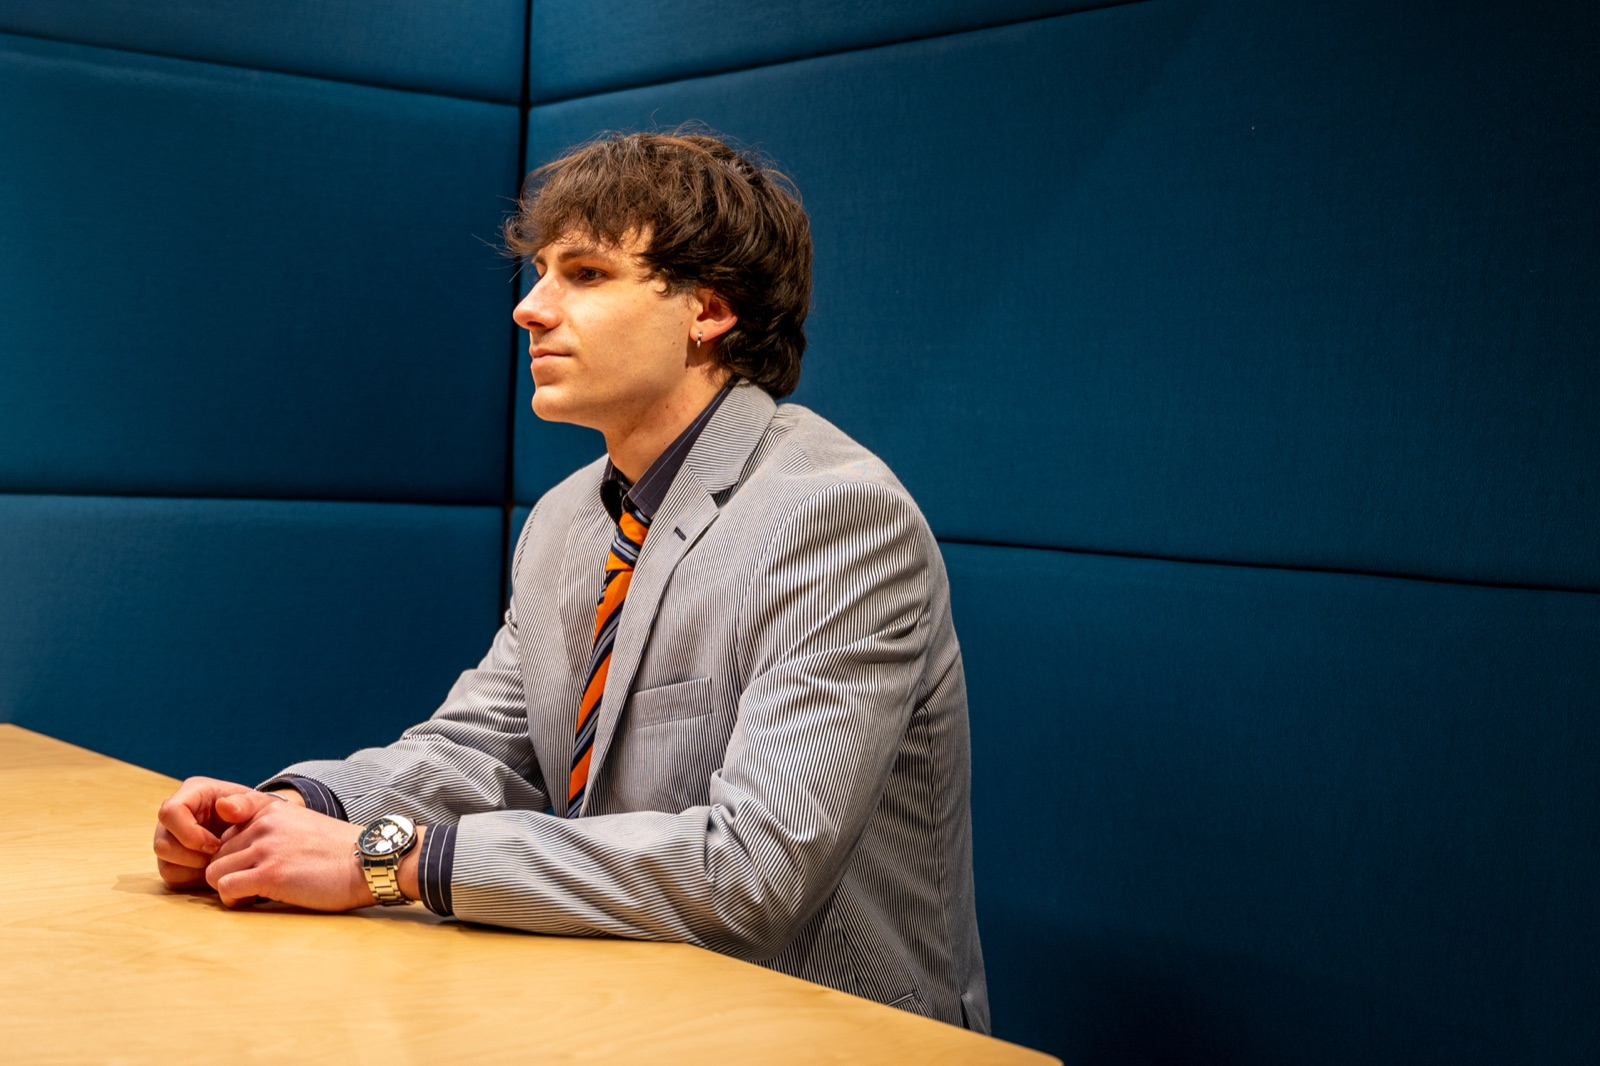
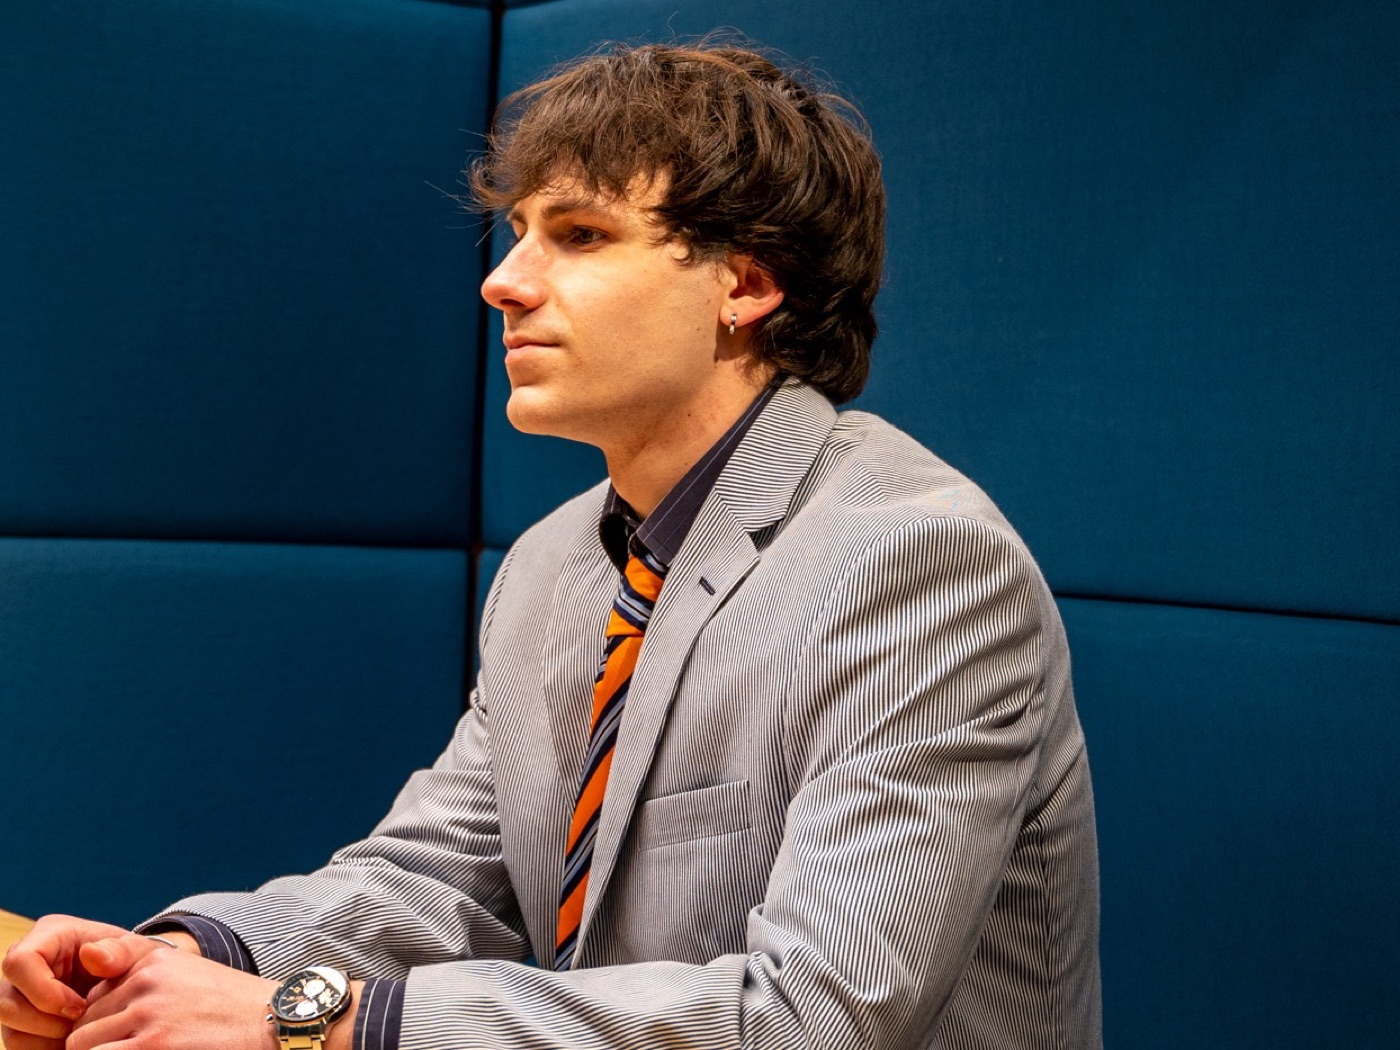
Chi sono: ritagli 2:3 e 4:3 senza crop, gradazioni separate per le due foto, aspect-ratio stabile su ogni schermo, cache v8

diff --git a/styles.css b/styles.css
@@ -412,7 +412,8 @@ a { text-decoration: none; color: inherit; }
   gap: 84px;
   align-items: center;
 }
-.about-photos { position: relative; height: 560px; }
+/* Sized by aspect-ratio so the framing stays identical at every screen width */
+.about-photos { position: relative; aspect-ratio: 17 / 20; }
 .ph {
   position: absolute;
   margin: 0;
@@ -421,36 +422,49 @@ a { text-decoration: none; color: inherit; }
   border: 1px solid var(--border);
 }
 .ph img {
+  position: absolute;
+  inset: 0;
   width: 100%;
   height: 100%;
   object-fit: cover;
+  object-position: center center;
   display: block;
-  /* light indigo patina: tints without washing the photo out */
-  filter: grayscale(0.14) contrast(1.12) saturate(1.1) brightness(0.97);
 }
 .ph::after {
   content: "";
   position: absolute;
   inset: 0;
-  background: linear-gradient(150deg, rgba(69,64,106,0.32), rgba(44,60,84,0.20));
   mix-blend-mode: soft-light;
   pointer-events: none;
 }
-/* back photo: portrait, the taller anchor of the composition */
+/* back photo: warm portrait, the taller anchor of the composition */
 .ph-back {
   top: 0; left: 0;
-  width: 62%; height: 83%;
+  width: 62%;
+  aspect-ratio: 2 / 3;
   box-shadow: 0 28px 70px rgba(0,0,0,0.5);
 }
-.ph-back img { object-position: center center; }
-/* front photo: landscape, overlapping the bottom right */
+.ph-back img {
+  /* light indigo patina: tints without washing the warm tones out */
+  filter: grayscale(0.12) contrast(1.14) saturate(1.14) brightness(0.94);
+}
+.ph-back::after {
+  background: linear-gradient(150deg, rgba(69,64,106,0.32), rgba(44,60,84,0.20));
+}
+/* front photo: cooler and brighter at source, so it gets its own darker grade */
 .ph-front {
   bottom: 0; right: 0;
-  width: 64%; height: 46%;
+  width: 66%;
+  aspect-ratio: 4 / 3;
   box-shadow: 0 18px 50px rgba(0,0,0,0.55);
   border: 2px solid var(--border-strong);
 }
-.ph-front img { object-position: center 38%; }
+.ph-front img {
+  filter: grayscale(0.20) contrast(1.09) saturate(0.95) brightness(0.78);
+}
+.ph-front::after {
+  background: linear-gradient(150deg, rgba(69,64,106,0.44), rgba(44,60,84,0.34));
+}
 .about-desc {
   font-size: 1rem;
   color: var(--text-muted);
@@ -914,7 +928,7 @@ a { text-decoration: none; color: inherit; }
   .lens-hero { max-width: 300px; }
 
   .about-grid { grid-template-columns: 1fr; gap: 56px; }
-  .about-photos { height: 380px; max-width: 460px; }
+  .about-photos { height: auto; max-width: 420px; }
 
   .values-list { grid-template-columns: 1fr; }
   .value-row:nth-child(2) { border-top: 1px solid var(--border); }

diff --git a/index.html b/index.html
@@ -16,7 +16,7 @@
   <link rel="preload" as="image" href="images/me/MON01287-web.jpg" />
   <link rel="preload" as="image" href="images/me/MON01340-web.jpg" />
 
-  <link rel="stylesheet" href="styles.css?v=4" />
+  <link rel="stylesheet" href="styles.css?v=8" />
 </head>
 <body>
 
@@ -545,6 +545,6 @@
     </div>
   </footer>
 
-  <script src="script.js?v=4"></script>
+  <script src="script.js?v=8"></script>
 </body>
 </html>
